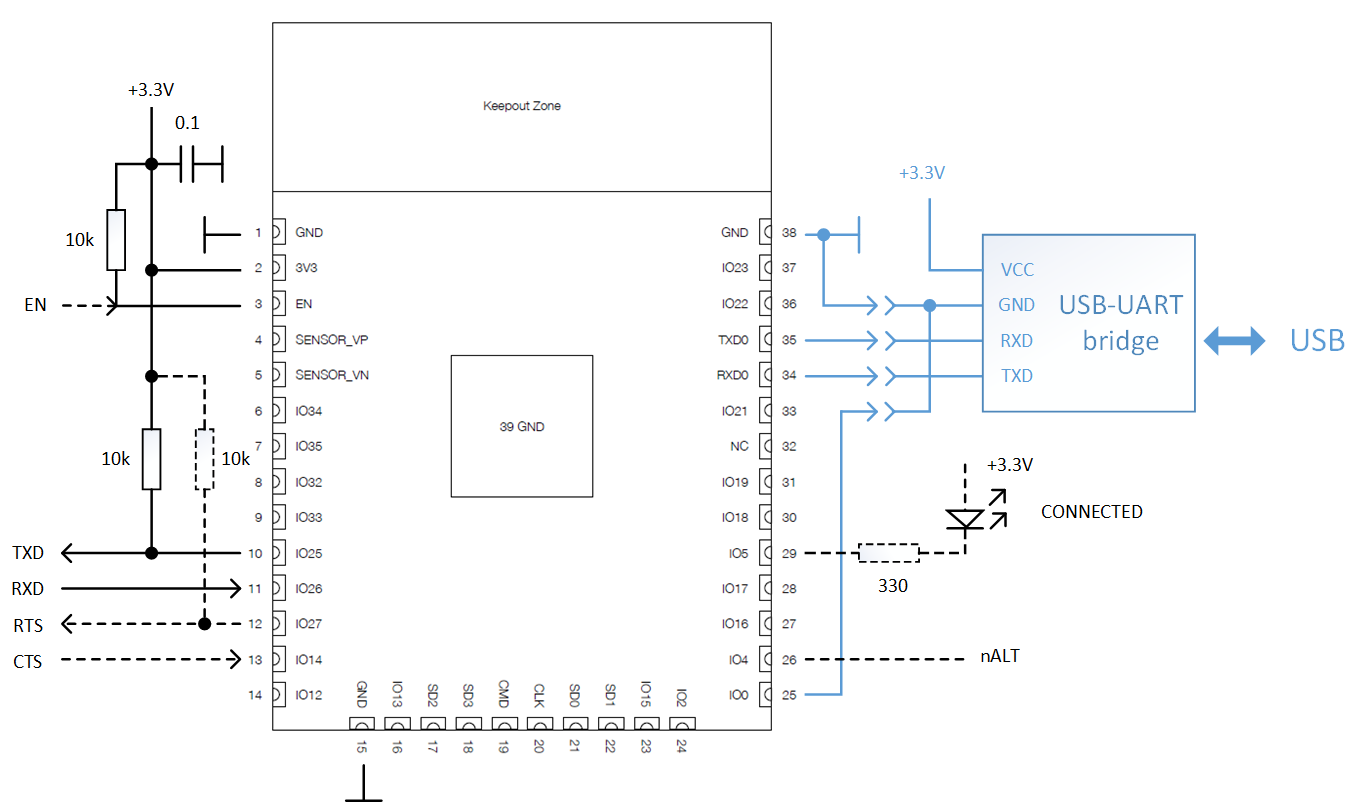
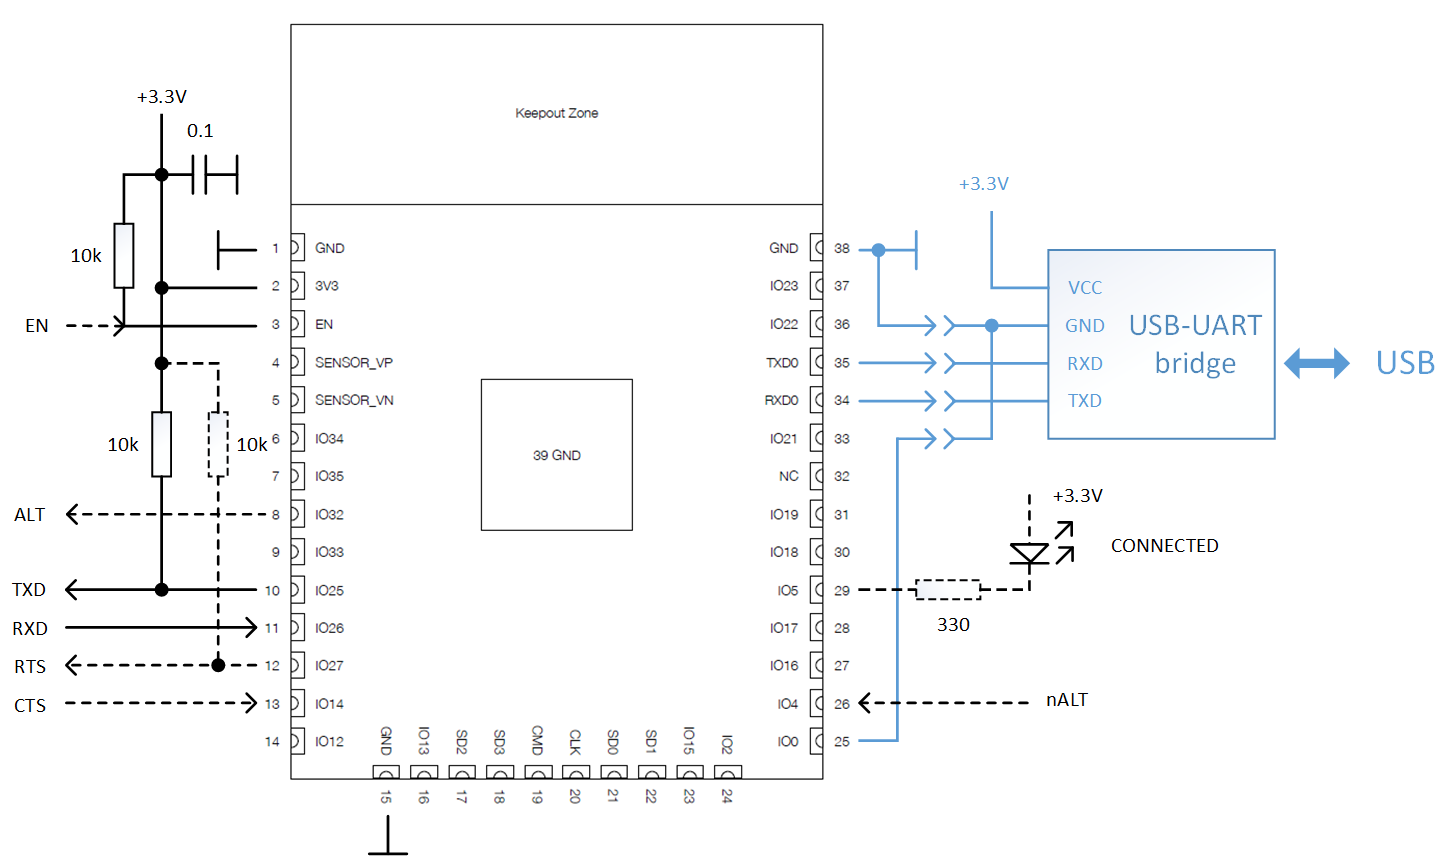
ALT output added to doc

diff --git a/README.md b/README.md
@@ -12,7 +12,7 @@ See https://docs.espressif.com/projects/esp-idf/en/latest/get-started/index.html
 
 ## Configuring
 
-The bridge has connection indicator output, serial data RX/TX lines and flow control lines RTS/CTS, the last one is optional. All 5 pin locations can be configured by running *make menuconfig*. Besides one can configure UART baud rate, buffer size and bluetooth device name prefix. The full device name consists of the user defined prefix followed by 6 symbols derived from the device MAC address. Such scheme is convenient in case you have more than one device since it provides the way to distinguish them. The supported serial baud rates are in the range from 9600 to 1843200 with 921600 being the default since it matches the baud rate of the bluetooth channel itself. So further increasing baud rate has no practical sense.
+The bridge has connection indicator output, serial data RX/TX lines and flow control lines RTS/CTS, the last one is optional. All pin locations can be configured by running *make menuconfig*. Besides one can configure UART baud rate, buffer size and bluetooth device name prefix. The full device name consists of the user defined prefix followed by 6 symbols derived from the device MAC address. Such scheme is convenient in case you have more than one device since it provides the way to distinguish them. The supported serial baud rates are in the range from 9600 to 1843200 with 921600 being the default since it matches the baud rate of the bluetooth channel itself. So further increasing baud rate has no practical sense.
 
 ## Building
 
@@ -31,6 +31,8 @@ You can use hardware flow control CTS/RTS lines or ignore them depending on your
 ## Alternative settings
 
 Pulling IO4 low while powering on activates alternative settings for baud rate and device name. It may be handy in case you need separate settings for flashing firmware for example. Note that in alternative mode hardware flow control is not used. Leave IO4 floating if alternative setting are not required.
+
+While in alternative mode the IO32 output is pulled high. Otherwise it is left in high impedance state. Such behavior is handy in case the alternative mode is used for upgrading firmware of the other MCU that is normally driving EN input. If alt mode output is connected to EN input it will keep ESP32 module active while upgrading firmware of the controlling MCU.
 
 ## Troubleshooting
 
